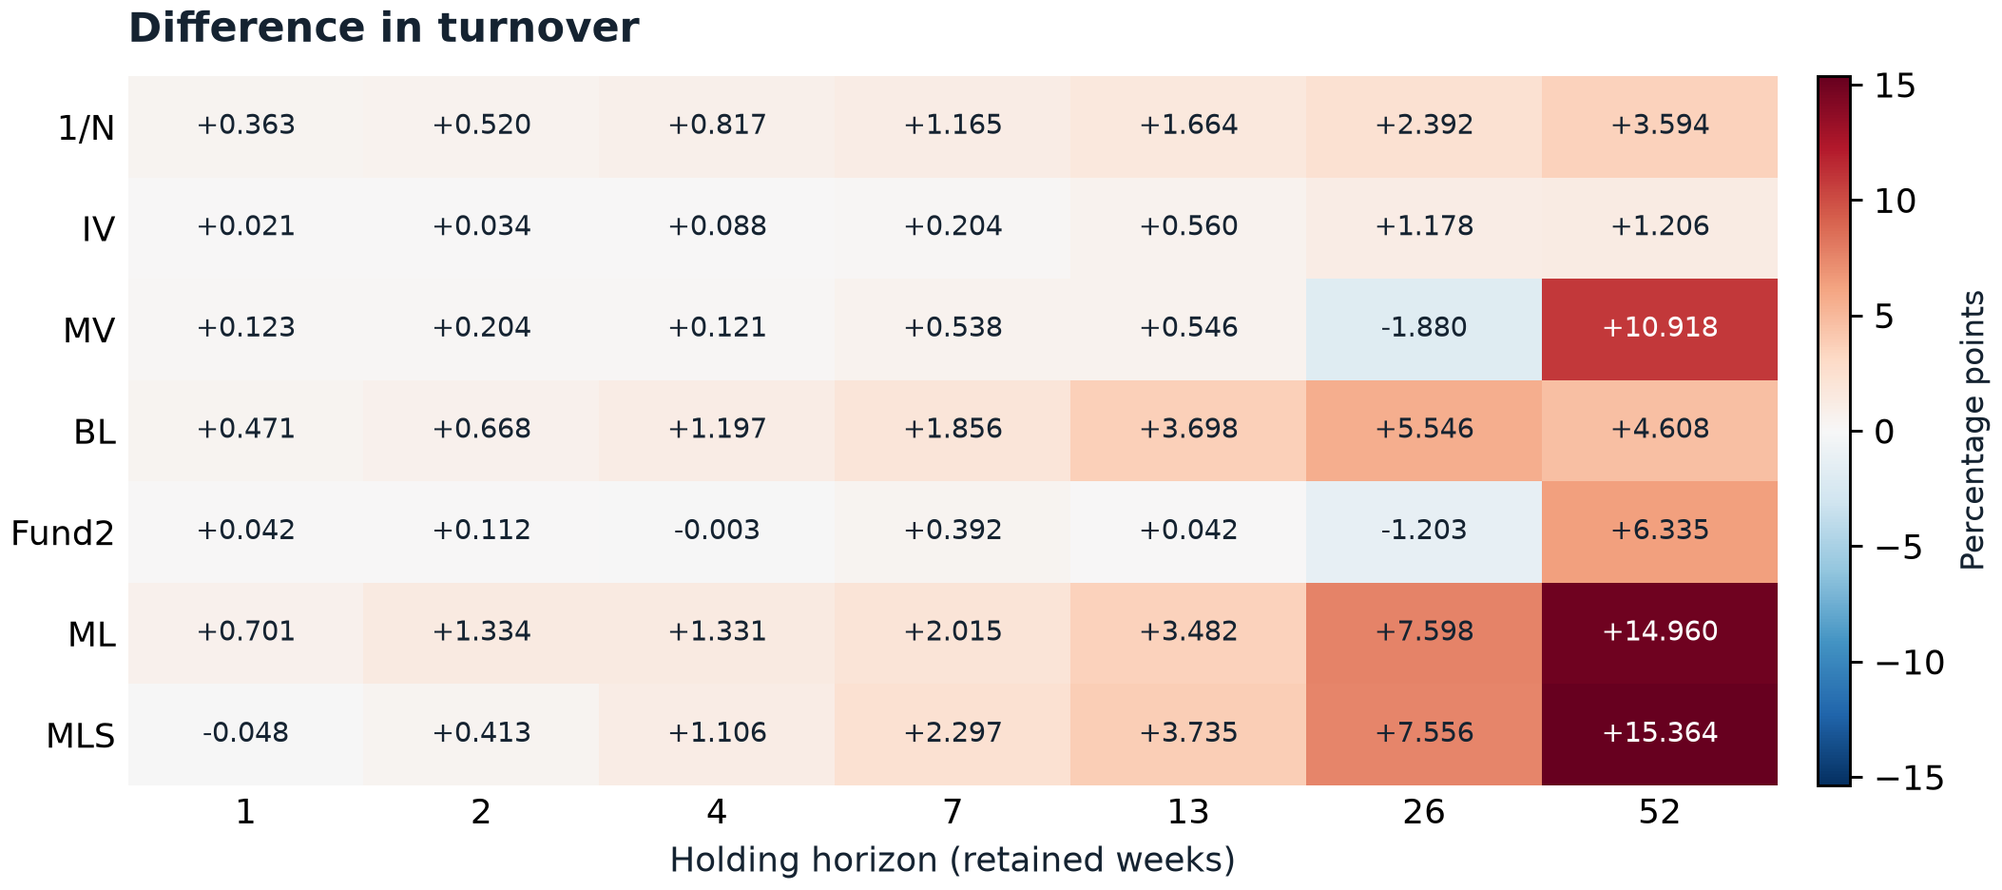
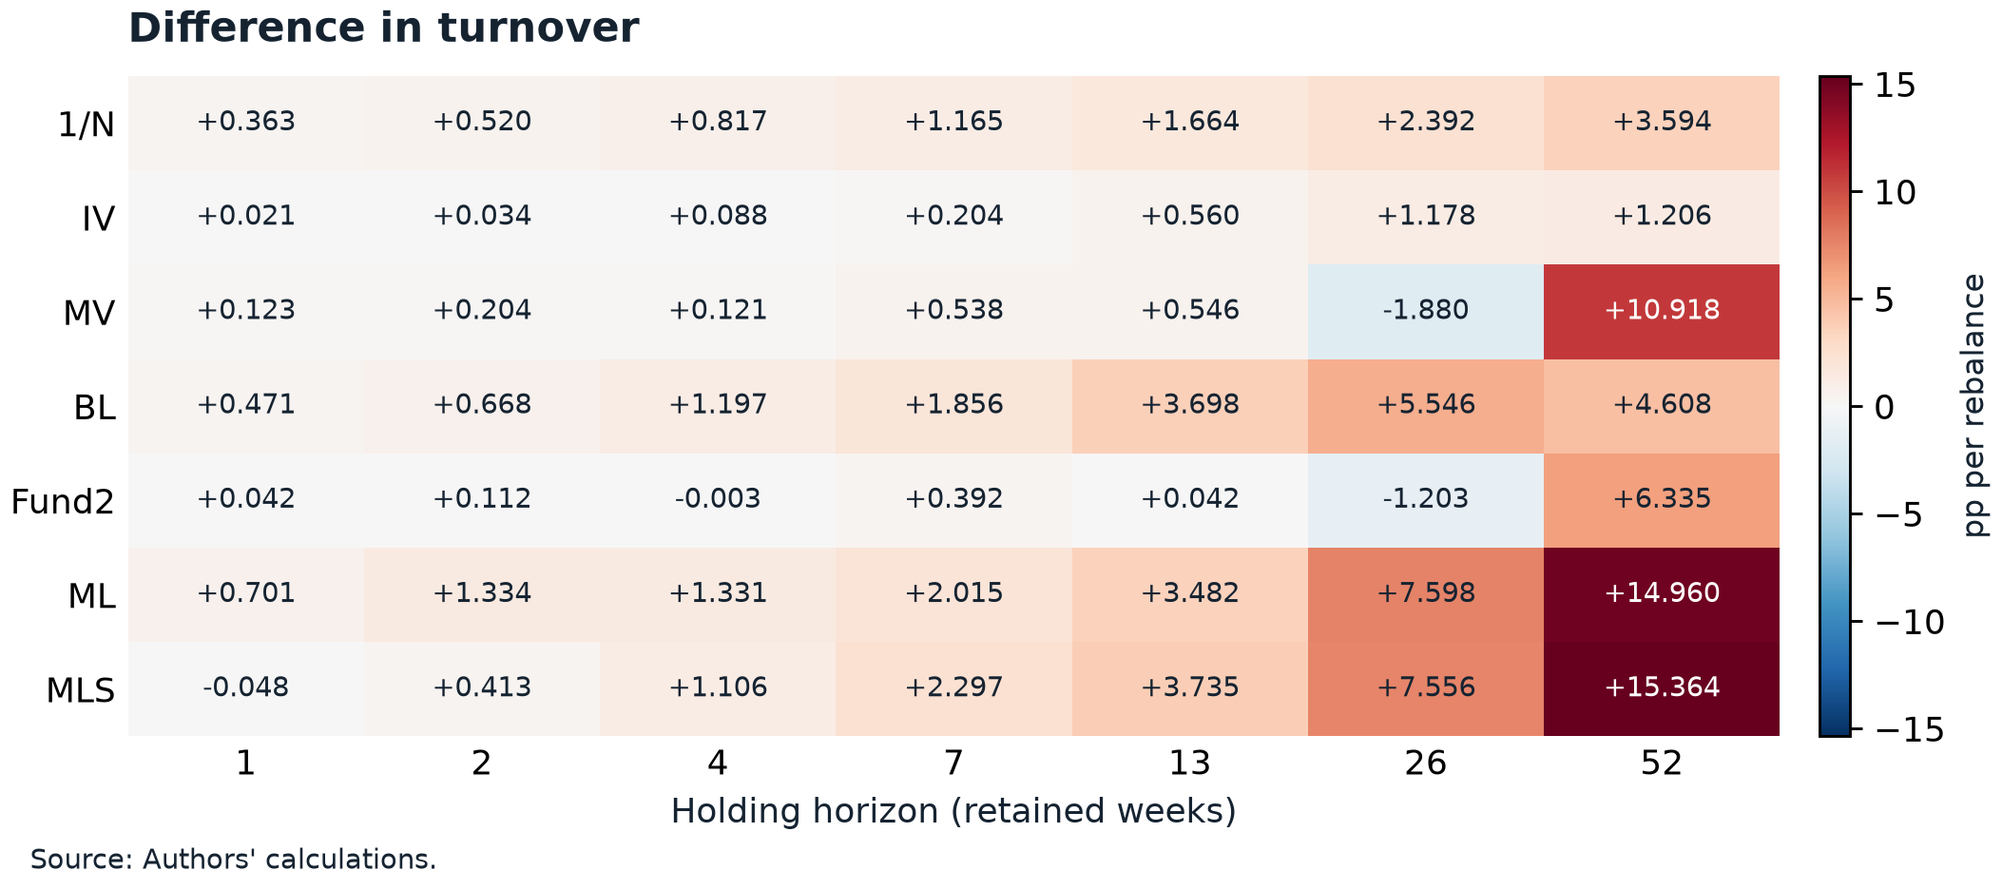
CFRI2027

diff --git a/Main_01.py b/Main_01.py
@@ -70,17 +70,19 @@ def allocate(values, forecast_steps, previous, diag, context):
 
 def run_horizon(weekly, horizon, diag):
     prices = weekly[ASSETS]
+    # Simple asset returns in percent. The same returns feed estimation and realized performance.
     returns = (100 * (prices / prices.shift(horizon) - 1)).to_numpy()
     dates = weekly["date"].reset_index(drop=True)
-    yields = weekly["yield_1y_pct"].to_numpy()
+    annual_yields_pct = weekly["yield_1y_pct"].to_numpy()
     # First training endpoints are h,...,h+51. Formation is one mark later.
     formations = np.arange(horizon + WINDOW, len(weekly) - horizon)
     maturity = formations + horizon
     if len(formations) <= horizon:
         raise ValueError(f"At h={horizon}, a holding phase would lack a turnover observation.")
     days = (dates.iloc[maturity].to_numpy() - dates.iloc[formations].to_numpy()) / np.timedelta64(1, "D")
-    # Common excess-return reference. Portfolio weights apply only to asset indices.
-    rf = 100 * np.expm1(np.log1p(yields[formations] / 100) * days / 365)
+    # Equation (1): Compound the annual yield quoted at formation over actual calendar days.
+    # The result is a simple holding-period return in percent. log1p/expm1 evaluate the power stably.
+    rf = 100 * np.expm1(np.log1p(annual_yields_pct[formations] / 100) * days / 365)
     schedule = pd.DataFrame({
         "horizon": horizon, "phase": np.arange(len(formations)) % horizon,
         "formation": dates.iloc[formations].to_numpy(), "maturity": dates.iloc[maturity].to_numpy(),
@@ -138,14 +140,40 @@ def run_horizon(weekly, horizon, diag):
 
 
 # region 2. Performance, matched inference, and non-overlapping phase checks
-def performance_metrics(frame):
-    excess = frame["excess_pct"].to_numpy()
+def excess_return_moments(excess):
+    """Return the numerator and denominators of the gross risk-adjusted ratios."""
     volatility = np.std(excess, ddof=1)
     downside = np.sqrt(np.mean(np.minimum(excess, 0) ** 2))
+    return excess.mean(), volatility, downside
+
+
+def risk_adjusted_components(returns):
+    """Report the return and risk components used to interpret Sharpe and Sortino."""
+    columns = [*KEYS, "portfolio"]
+    rows = []
+    for key, frame in returns.groupby(columns, sort=False):
+        excess = frame["excess_pct"].to_numpy()
+        mean, volatility, downside = excess_return_moments(excess)
+        shortfalls = excess[excess < 0]
+        rows.append({
+            **dict(zip(columns, key)),
+            "observations": len(excess),
+            "mean_excess_pct": mean,
+            "excess_volatility_pct": volatility,
+            "downside_deviation_pct": downside,
+            "shortfall_share": len(shortfalls) / len(excess),
+            "shortfall_rms_pct": np.sqrt(np.mean(shortfalls ** 2)) if len(shortfalls) else np.nan,
+        })
+    return pd.DataFrame(rows)
+
+
+def performance_metrics(frame):
+    excess = frame["excess_pct"].to_numpy()
+    mean, volatility, downside = excess_return_moments(excess)
     out = {
         "MeanGross": frame["gross_pct"].mean(), "GrossVolatility": frame["gross_pct"].std(ddof=1),
-        "MeanExcess": excess.mean(), "Sharpe": excess.mean() / volatility if volatility > 0 else np.nan,
-        "Sortino": excess.mean() / downside if downside > 0 else np.nan,
+        "MeanExcess": mean, "Sharpe": mean / volatility if volatility > 0 else np.nan,
+        "Sortino": mean / downside if downside > 0 else np.nan,
         "Turnover": frame["turnover"].mean(), "observations": len(frame),
         "first_maturity": frame["maturity"].iloc[0], "last_maturity": frame["maturity"].iloc[-1],
     }
@@ -272,8 +300,9 @@ def run(output):
     tables = {
         "table_02_sample": pd.DataFrame(coverage), "table_03_sharpe_inference": inference,
         "table_04_economic_comparison": differences, "table_05_dea_summary": dea_summary,
-        "table_06_nonoverlap_summary": phase_summary(phases), "table_A1_asset_statistics": pd.DataFrame(descriptions),
-        "performance_by_portfolio": perf, "dea_by_portfolio": dea, "dea_alternative": dea_no_sortino,
+        "nonoverlapping_phase_summary": phase_summary(phases), "table_A1_asset_statistics": pd.DataFrame(descriptions),
+        "performance_by_portfolio": perf, "risk_adjusted_components": risk_adjusted_components(returns),
+        "dea_by_portfolio": dea, "dea_alternative": dea_no_sortino,
         "dea_matched_differences": dea_pivot, "nonoverlapping_phase_results": phases,
         "asset_weights_summary": weights_agg,
         "dea_diagnostics": pd.concat([dea_diag, dea_no_diag], ignore_index=True),

diff --git a/Tables_09.py b/Tables_09.py
@@ -71,15 +71,6 @@ def cost_row(row):
     return (*design(row), fixed(row["fixed_risk_gross_gain_pct"]), *fees)
 
 
-def path_row(row):
-    minimum, maximum = row["n_min"], row["n_max"]
-    counts = minimum if minimum == maximum else f"{minimum}–{maximum}"
-    denominator = row["phases"]
-    return (*design(row), counts, f'{row["positive_sharpe_phases"]}/{denominator}',
-            fixed(row["sharpe_delta_median"]), f'{row["negative_loss_50_phases"]}/{denominator}',
-            fixed(row["return_loss_50_median_pct"]))
-
-
 def asset_row(row):
     return (ASSETS[row["asset"]], row["horizon"], row["n"],
             *(fixed(row[key], 2) for key in (
@@ -98,34 +89,28 @@ def complete_tables(csv_dir):
             (*first, "Δ Sharpe", "95% pointwise interval", "Baseline HAC p", "Baseline Holm p",
              "Longer-lag HAC p", "Longer-lag Holm p"),
             tuple(map(sharpe_row, rows_by_key(csv_dir/"table_03_sharpe_inference.csv", keys, grid))),
-            "HAC p-values are two-sided. The pointwise interval uses the baseline lag. Holm adjustment "
-            "uses all 91 comparisons separately for each lag. A dash denotes a rule without a risk-aversion parameter."
+            "Sharpe differences and interval bounds are unitless and use holding-period ratios without annualization. "
+            "HAC p-values are two-sided probabilities. The interval uses the baseline lag. Holm adjustment uses all "
+            "91 comparisons separately for each lag. A dash denotes a rule without a risk-aversion parameter. "
+            "Source. Authors’ calculations."
         ),
         ManuscriptTable(
             "4", "Gross return, fee drag and return loss across holding horizons",
             (*first, "Gross gain G", *(f"{label}, {fee} bp" for fee in FEES
                                       for label in ("C", "G−C", "Loss"))),
             tuple(map(cost_row, rows_by_key(csv_dir/"table_04_economic_comparison.csv", keys, grid))),
-            "All estimates are percentage points per holding period. G compares gross returns at a fixed "
+            "All gain, drag and loss estimates are in percentage points per holding period, without annualization. "
+            "G compares gross returns at a fixed "
             "gross-volatility scale. C is incremental fee drag at that scale. Loss denotes return loss at matched net volatility. "
-            "Negative return loss favors the expanded portfolio. Fees are per side."
-        ),
-        ManuscriptTable(
-            "6", "Sensitivity across non-overlapping starting dates",
-            (*first, "Holdings per path", "Positive Δ Sharpe", "Median Δ Sharpe",
-             "Negative return loss", "Median return loss"),
-            tuple(map(path_row, rows_by_key(csv_dir/"table_06_nonoverlap_summary.csv", keys, grid))),
-            "Counts report paths with the indicated sign over all starting-week offsets. "
-            "Return loss is measured at 50 bp per side in percentage points per holding. "
-            "The path summaries are descriptive because starting-week paths share calendar shocks."
+            "Negative return loss favors the expanded portfolio. Fees are in basis points per side. Source. Authors’ calculations."
         ),
         ManuscriptTable(
             "A1", "Simple asset returns across holding horizons",
             ("Index", "Horizon (weeks)", "N", "Mean", "SD", "Min", "Max", "Skewness", "Excess kurtosis"),
             tuple(map(asset_row, rows_by_key(csv_dir/"table_A1_asset_statistics.csv", ("horizon","asset"), assets))),
-            "Return quantities are in percentage points. The rows use the common weekly price panel. "
-            "Adjacent holding-period returns overlap beyond the one-week horizon. "
-            "The new-energy equity rows use the proxy index identified in Table 1."
+            "Mean, SD, Min and Max are in percent per holding period, without annualization. N is a count. "
+            "Skewness and excess kurtosis are unitless. Returns overlap beyond one week. "
+            "Source. Authors’ calculations from the common weekly index levels in Table 1."
         ),
     )
 

diff --git a/Figures_08.py b/Figures_08.py
@@ -51,6 +51,8 @@ def heatmap(frame, metric, title, color_label, root, number, favor_negative=Fals
                         color="white" if abs(value) > .64 * label_limit else "#152331")
     color = fig.colorbar(im, ax=ax, pad=.024, aspect=22)
     color.set_label(color_label, fontsize=9)
+    fig.get_layout_engine().set(rect=(0, 0.055, 1, 0.945))
+    fig.text(0.015, 0.024, "Source: Authors' calculations.", fontsize=8)
     fig.savefig(root / f"figure_{number:02d}.png", dpi=260, facecolor="white")
     plt.close(fig)
 
@@ -60,15 +62,15 @@ def draw_figures(differences, efficiencies, weights, root):
     root.mkdir(parents=True, exist_ok=True)
     with plt.rc_context({"font.family": "DejaVu Sans", "font.size": 10, "text.color": "#152331",
                          "axes.labelcolor": "#152331", "axes.titlecolor": "#152331"}):
-        heatmap(differences, "sharpe_delta", "(a) Difference in Sharpe ratios", "Ratio difference", root, 1)
-        heatmap(differences, "sortino_delta", "(b) Difference in Sortino ratios", "Ratio difference", root, 2)
-        heatmap(differences, "turnover_delta", "Difference in turnover", "Percentage points", root, 3, True)
-        heatmap(differences, "return_loss_50_pct", "(a) Return loss at a 50 bp trading cost", "Percentage points", root, 4, True)
-        heatmap(differences, "return_loss_20_pct", "(b) Return loss at a 20 bp trading cost", "Percentage points", root, 5, True)
-        heatmap(efficiencies, "dea_delta", "Difference in DEA efficiency", "Score difference", root, 6)
+        heatmap(differences, "sharpe_delta", "(a) Difference in Sharpe ratios", "Difference (unitless)", root, 1)
+        heatmap(differences, "sortino_delta", "(b) Difference in Sortino ratios", "Difference (unitless)", root, 2)
+        heatmap(differences, "turnover_delta", "Difference in turnover", "pp per rebalance", root, 3, True)
+        heatmap(differences, "return_loss_50_pct", "(a) Return loss at 50 bp per side", "pp per holding", root, 4, True)
+        heatmap(differences, "return_loss_20_pct", "(b) Return loss at 20 bp per side", "pp per holding", root, 5, True)
+        heatmap(efficiencies, "dea_delta", "Difference in DEA efficiency", "Difference (score units)", root, 6)
         target = weights.loc[weights["portfolio"].eq("Renewable") & weights["asset"].eq("new_energy")].copy()
         target["mean_weight_pct"] = 100 * target["mean_weight"]
         target["positive_weight_pct"] = 100 * target["positive_weight_share"]
         heatmap(target, "mean_weight_pct", "(a) Mean weight in the proxy index", "Percent", root, 7, percentage_max=25)
-        heatmap(target, "positive_weight_pct", "(b) Frequency of positive weights in the proxy index", "Percent", root, 8, percentage_max=100)
+        heatmap(target, "positive_weight_pct", "(b) Frequency of positive weights in the proxy index", "Percent of formations", root, 8, percentage_max=100)
 

diff --git a/Data_Preparation_02.py b/Data_Preparation_02.py
@@ -29,6 +29,7 @@ def weekly_inputs(data_dir=DATA):
         prices[asset] = pd.to_numeric(prices[asset], errors="coerce")
     if prices["date"].duplicated().any():
         raise ValueError("Duplicate dates in the price input.")
+    # The worksheet contains annual percentage yield levels.
     yields = pd.read_excel(data_dir / "raw" / YIELD_FILE, sheet_name="Treasury Yield 1Y")
     yields.columns = yields.columns.str.strip()
     yields = yields.rename(columns={"Date": "yield_date", "China 1-Year Treasury Yield (%)": "yield_1y_pct"})
@@ -41,6 +42,7 @@ def weekly_inputs(data_dir=DATA):
     # region 2. Last common trading mark per Friday-ending week
     eligible = prices[prices["date"].ge(INDEX_LAUNCH) & prices[ASSETS].gt(0).all(axis=1)]
     weekly = eligible.sort_values("date").groupby(pd.Grouper(key="date", freq="W-FRI")).tail(1)
+    # Attach the most recent available yield strictly before each weekly formation mark.
     weekly = pd.merge_asof(weekly, yields, left_on="date", right_on="yield_date", allow_exact_matches=False)
     if weekly["yield_1y_pct"].isna().any() or not weekly["date"].is_monotonic_increasing:
         raise ValueError("Weekly prices or formation yields are misaligned.")

diff --git a/README.md b/README.md
@@ -1,6 +1,6 @@
 # README
 
-Replication materials for **A Chinese New-Energy Equity Index in Multi-Asset Portfolios: Holding Horizons and Trading Costs**.
+Replication materials for **The Role of Chinese New-Energy Equity in Portfolio Optimization: A Multi-Horizon Analysis**.
 
 ## Step 1. Software and package requirements
 
@@ -21,7 +21,7 @@ The complete run estimates all seven horizons and thirteen method–parameter se
 ## Step 2. Input workbooks and data preparation
 
 - `data/raw/Data_4_newpaper.xlsx`, sheet `Index Levels`, supplies the daily levels. `Data_Preparation_02.py` selects the Nanhua Commodity Index, CSI 300, ChinaBond Treasury and Corporate Bond Net Price indices, and the CSI CN Mainland New Energy Index (000941), stored under the workbook header `CSI Mainland New Energy Theme Index`. The workbook has no separate ticker row. The selected series is the empirical proxy for Chinese new-energy equity exposure. A join to East Money's 000941 daily quotes matched 4,013 dates from launch through the end of the sample, with a maximum absolute discrepancy of 0.016 index points. The analysis uses the workbook values.
-- `data/raw/China_Treasury_Yield_1Y.xlsx`, sheet `Treasury Yield 1Y`, supplies the daily one-year Chinese Treasury yield in the `China 1-Year Treasury Yield (%)` column. The most recent nonzero yield strictly before formation is converted into a reference return for the actual holding period. Both portfolios use it to calculate excess returns. Only the asset indices above receive portfolio weights. The source materials do not document vendor contracts or redistribution terms. Confirm the data providers and permissions before publicly posting either workbook or its derived series.
+- `data/raw/China_Treasury_Yield_1Y.xlsx`, sheet `Treasury Yield 1Y`, supplies daily observations of the annualized one-year Chinese Treasury yield in the `China 1-Year Treasury Yield (%)` column. These values are yield levels in annual percent. The most recent nonzero observation strictly before formation is used. Both portfolios use it to calculate excess returns. The CSV label Renewable identifies the expanded portfolio. Only the asset indices above receive portfolio weights. The source materials do not document vendor contracts or redistribution terms. Confirm the data providers and permissions before publicly posting either workbook or its derived series.
 - The input copies use English file, worksheet and column names. Dates, numeric observations and missing entries match the supplied workbooks.
 - `Data_Preparation_02.py` selects the last common valid date of each Friday-ending week from the index launch date. Its stand-alone entry point writes only `data/weekly_inputs.csv`. The full run reconstructs this data from the workbooks. The [China Securities Index factsheet](https://oss-ch.csindex.com.cn/static/html/csindex/public/uploads/indices/detail/files/zh_CN/000941factsheet.pdf) identifies 000941 and gives the launch date of 28 October 2009. [East Money historical quotes](https://quote.eastmoney.com/zs000941.html) were used solely for the identification check.
 
@@ -49,10 +49,15 @@ Raw workbook SHA-256 digests:
 
 ### Calendar and units
 
+- For an index level P, the simple holding-period return in percent is 100 × [P(t+h)/P(t) − 1]. Estimation, realized gross portfolio returns and portfolio statistics use these simple returns. Calculations in wealth units divide returns by 100. With decimal gross return r, per-side fee c and fractional turnover TO, the decimal net return is (1+r)(1−c×TO)−1.
+- Equation (1) converts the one-year yield level y, observed in annual percent, into the simple reference return in percent for D actual calendar days: 100 × [(1+y/100)^(D/365)−1]. This uses the quoted annual yield as the annual compounding rate. A percentage change in the quoted yield does not measure the reference return. The code evaluates the power using log1p and expm1 to preserve precision. Gross excess return equals gross portfolio return less this common reference return.
 - `data/formation_calendar.csv` records each holding's start, end, phase, training endpoints and calendar duration. Phase zero starts at the first available formation of the horizon.
-- `data/portfolio_returns.csv` contains paired realized returns per horizon, method, risk-aversion setting and portfolio. Return columns ending in `_pct` are in percentage points. Fee-drag columns ending in `_20` or `_50` are also in percentage points. Turnover is a fraction of the portfolio's initial value summing buys and sells. Its first value in each path is blank. The first holding has equal gross and net returns.
+- `data/portfolio_returns.csv` contains paired realized returns per horizon, method, risk-aversion setting and portfolio. Return columns ending in `_pct` are simple holding-period returns in percent, without annualization. Fee-drag columns ending in `_20` or `_50` are also in percentage points. Turnover is a fraction of the portfolio's initial value summing buys and sells. Its first value in each path is blank. The first holding has equal gross and net returns.
 - `data/portfolio_weights.csv` reports target weights as fractions. The benchmark's weight in the proxy index is blank because that asset is outside its universe. `NA` in `gamma` indicates a rule without a risk-aversion parameter. When reading with pandas, use `keep_default_na=False` for this string where appropriate.
 - The program verifies identical benchmark and expanded dates and reference returns, long-only unit-sum allocations, path boundaries, the net return identity and the fixed-risk gain identity. It saves realized VAR and optimizer diagnostics in `tables/diagnostics/` and records frontier exclusions and solver status in `tables/dea_diagnostics.csv`.
+
+- Sections 5.1 and 5.2 use `tables/risk_adjusted_components.csv` to compare mean excess return, excess-return volatility, downside deviation, the fraction of negative excess returns, and the root mean square conditional on a negative excess return. Downside deviation equals the latter multiplied by the square root of the shortfall share.
+- `tables/nonoverlapping_phase_results.csv` and `tables/nonoverlapping_phase_summary.csv` provide starting-week sensitivity checks described in Section 4.4. The latter gives path lengths, sign counts and medians at the 50 bp fee. Both are replication outputs.
 
 ## Step 4. Reproduce the tables
 
@@ -63,18 +68,19 @@ Raw workbook SHA-256 digests:
 | Table 3 | `table_03_sharpe_inference.csv` | All seven horizons and 13 settings, paired Sharpe differences and two HAC lag choices with Holm adjustment |
 | Table 4 | `table_04_economic_comparison.csv` | All seven horizons and 13 settings, gross gain, fee drag, net gain and return loss at both fees |
 | Table 5 | `table_05_dea_summary.csv` | Method means and medians pooled over all seven horizons and, where relevant, all γ values |
-| Table 6 | `table_06_nonoverlap_summary.csv` | All seven horizons and 13 settings, path lengths, sign counts and medians at the 50 bp fee |
 | Table A1 | `table_A1_asset_statistics.csv` | All seven horizons and all five assets |
+
+Holding-period Sharpe and Sortino ratios, DEA scores, skewness and excess kurtosis are unitless. Table 3 p-values are probabilities. Table 4 changes in returns and fee drag are percentage points per holding, without annualization. Table A1 return statistics are in percent per holding, without annualization. Table 2 reports counts, weeks and dates. The manuscript notes identify authors’ calculations and the inputs where applicable.
 
 Other files report absolute portfolio performance, both sets of frontier scores, all individual starting-date estimates and all asset weight summaries. The main inference CSV reports pointwise intervals, both HAC bandwidths, each set of Holm-adjusted p-values, and the one- and two-sided JK p-values. The 50 bp and 20 bp fee assumptions represent per-side costs. Risk-matched return loss and the fixed-gross-volatility decomposition use different scale factors, as explained in the manuscript.
 
-After running the main script, regenerate the full landscape LaTeX versions of Tables 3, 4, 6 and A1:
+After running the main script, regenerate the full landscape LaTeX versions of Tables 3, 4 and A1:
 
-    python -B Tables_09.py --output "../LeTeX/Tables"
+    python -B Tables_09.py --output ./latex-tables
 
-Use the optional --tables argument to read CSVs from an alternate run's tables directory.
+From the `CFRI2027` folder in this workspace, use `--output ../../LaTeX/Tables` to write directly to the manuscript project. Use `--tables` to read CSVs from an alternate run.
 
 ## Step 5. Reproduce the figures
 
-`Figures_08.py` is called automatically by the main script. The `figures/` folder contains eight image panels and their plotting matrices. Manuscript Figure 1 combines panels 1 and 2 (Sharpe and Sortino). Figure 2 uses panel 3 (turnover). Figure 3 combines panels 4 and 5 (return loss at 50 and 20 bp). Figure 4 uses panel 6 (DEA). Figure 5 combines panels 7 and 8 (mean weight in the proxy index and frequency of positive positions). The plots use γ = 5 where applicable. The Figure 3 plotting matrix contains decimal turnover differences. The plot multiplies them by 100 to show percentage points. All other matrices are in the displayed units.
+`Figures_08.py` is called automatically by the main script. The `figures/` folder contains eight image panels and their plotting matrices. Manuscript Figure 1 combines panels 1 and 2 (Sharpe and Sortino). Figure 2 uses panel 3 (turnover). Figure 3 combines panels 4 and 5 (return loss at 50 and 20 bp). Figure 4 uses panel 6 (DEA). Figure 5 combines panels 7 and 8 (mean weight in the proxy index and frequency of positive positions). The plots use γ = 5 where applicable. Panel 3 (`figure_03_data.csv`, manuscript Figure 2) stores turnover differences as fractions. Its image multiplies them by 100 to show percentage points per rebalance. The remaining matrices use the displayed units. Sharpe and Sortino are unitless and use holding-period returns without annualization. Return loss is in percentage points per holding, without annualization. DEA differences are in score units. Weight and positive-position frequency are percentages at formation. The stand-alone panels identify authors’ calculations as their source.
 
